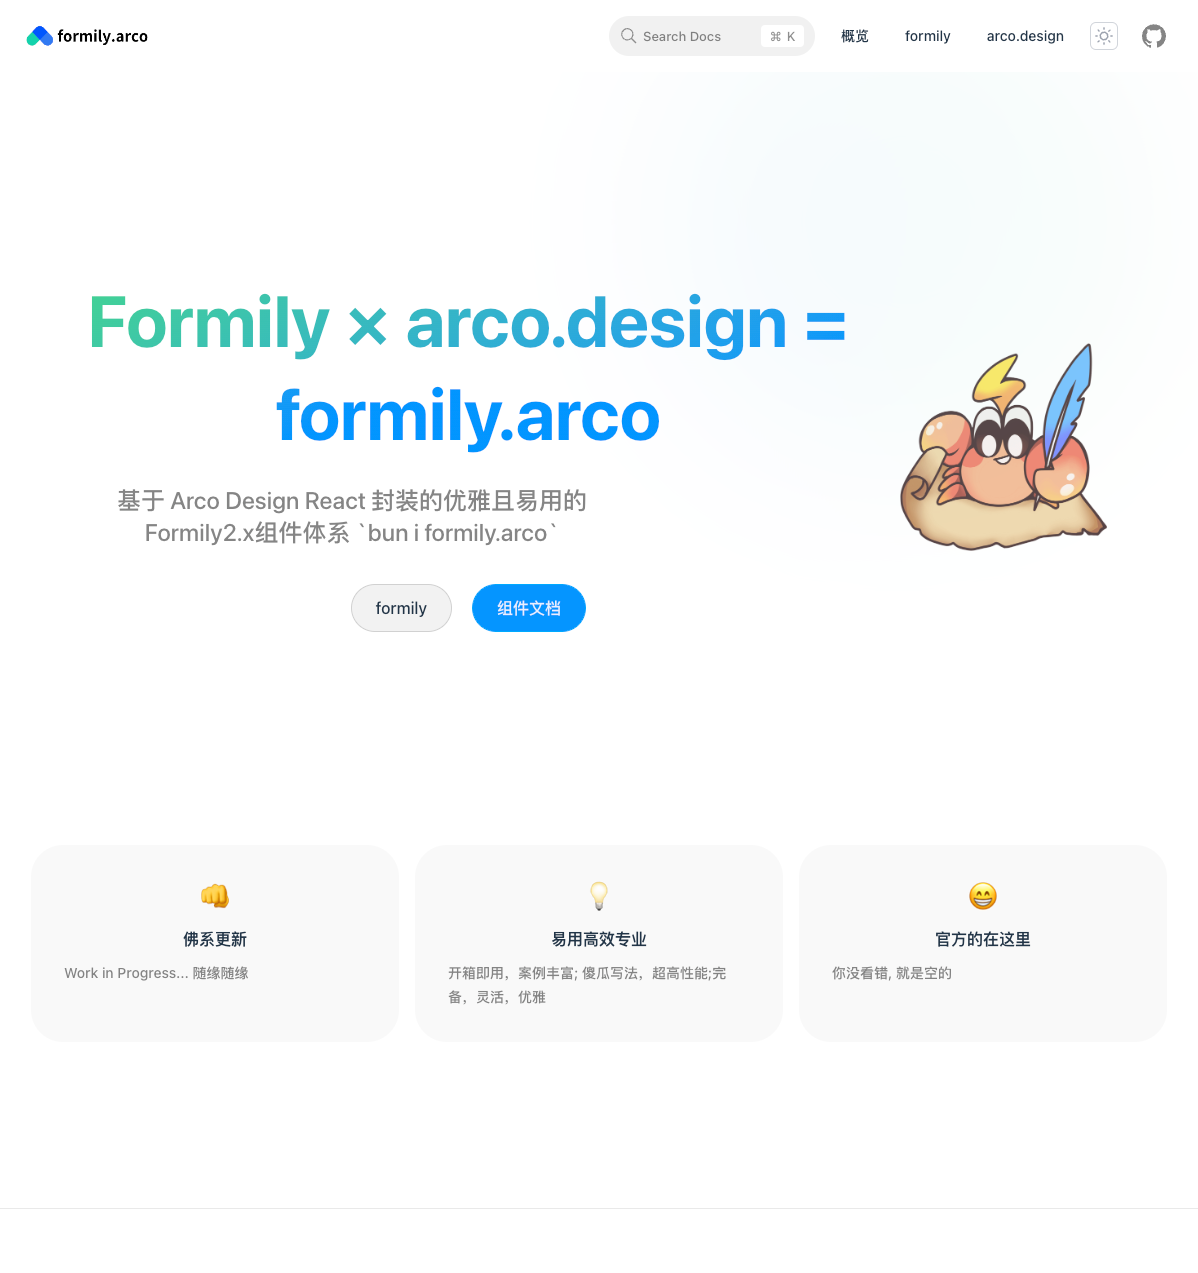
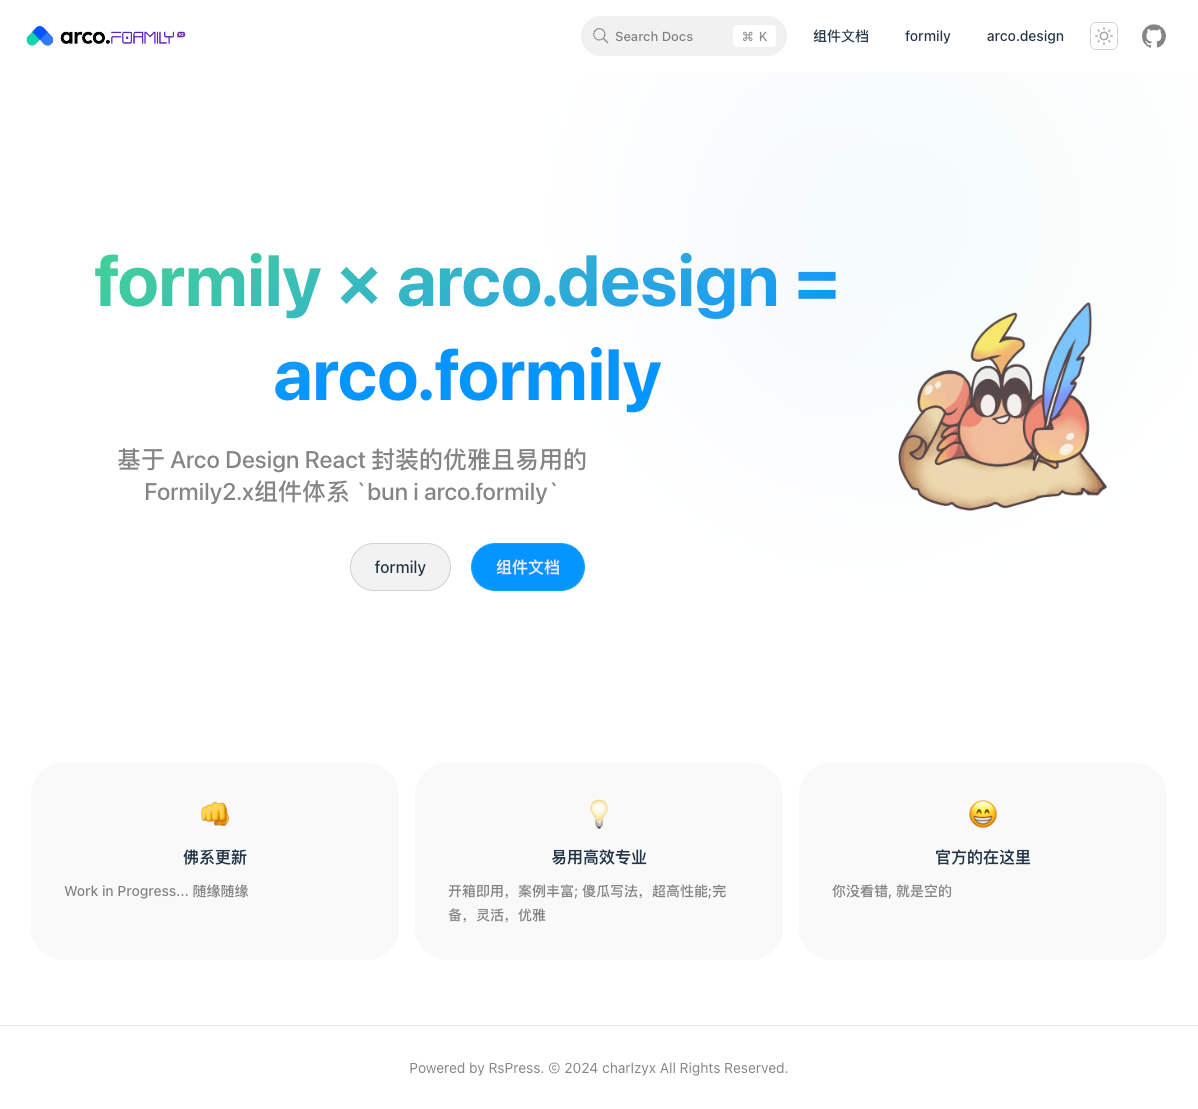
docs: ✏ for doc site

diff --git a/rspress.config.ts b/rspress.config.ts
@@ -6,17 +6,20 @@ import { pluginPreview } from "@rspress/plugin-preview";
 export default defineConfig({
   plugins: [pluginPreview()],
   root: path.join(__dirname, "docs"),
-  title: "arco.formily React",
-  description: "Formily Impl for Arco Design React",
-  icon: "/arco.png",
+  title: "arco.formily",
+  description: "Formily Components Adaptor of Arco Design React",
+  icon: "/logo.png",
   logo: {
-    light: "/arco.png",
-    dark: "/arco.png",
+    light: "/logo.png",
+    dark: "/logo.png",
   },
   builderConfig: {
     ...(RsBuildConfig as any),
   },
   themeConfig: {
+    footer: {
+      message: "Powered by RsPress. © 2024 charlzyx All Rights Reserved.",
+    },
     socialLinks: [
       {
         icon: "github",
